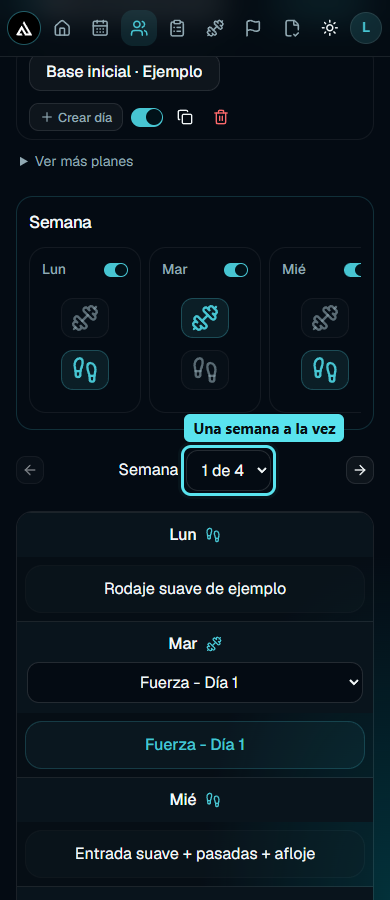
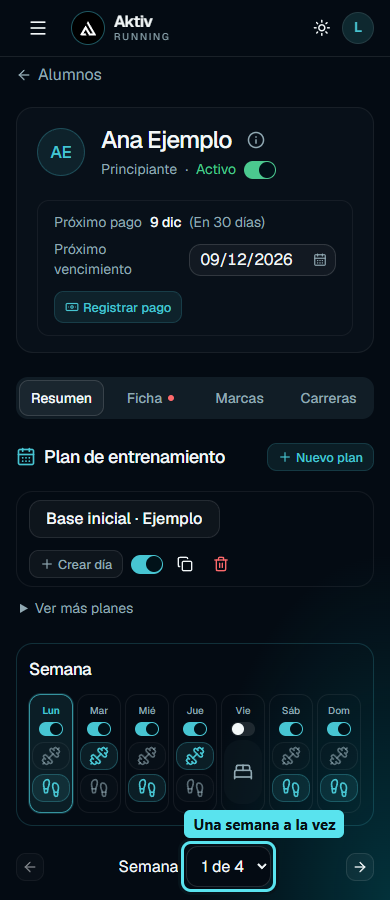
Compactar semana y agregar navegación lateral móvil

diff --git a/aktiv-client/src/components/planificacion-unificada.tsx b/aktiv-client/src/components/planificacion-unificada.tsx
@@ -1,7 +1,7 @@
 "use client";
 
 import { memo, useMemo, useCallback, useEffect, useRef, useState, type ReactNode, type CSSProperties } from "react";
-import { Activity, ArrowLeft, ArrowRight, BedDouble, Dumbbell, Footprints } from "lucide-react";
+import { Activity, ArrowLeft, ArrowRight, BedDouble, Dumbbell, Footprints, RotateCcw } from "lucide-react";
 import { toast } from "sonner";
 import { actividadesDelDia, actualizarDistribucion, asignarDiaApi, DIAS_PLAN, DIAS_RUNNING, semanaDelPlan, type ActividadDia, type Distribucion, type PlanMensual, type Running, type SesionEntrenamiento } from "@aktiv/contrato";
 import { Button } from "./ui/button";
@@ -11,7 +11,7 @@ import { CeldaRunning } from "./running-semanal";
 import { useActividadesPlan } from "./actividades-plan";
 import { usePlanEditor } from "./plan-editor-context";
 import { avisarCambioDistribucion, avisarCambioRunning, hayBorradoresMensuales, registrarBorradorMensual } from "@/lib/mensual";
-import { formatFecha, hoyISO } from "@/lib/format";
+import { diaDeHoy, formatFecha, hoyISO } from "@/lib/format";
 
 type Plan = Pick<PlanMensual,"id"|"semanas"|"sesiones"|"running"|"distribucion"> & {inicio?:string;nombre?:string};
 type Props = {plan:Plan;editable:boolean;renderRutina:(s:SesionEntrenamiento,semana:number,cerrar:()=>void)=>ReactNode};
@@ -23,7 +23,7 @@ const nombreRutina=(p:Plan,s:SesionEntrenamiento)=>`${tipoVisual(s.tipo)} - Día
 const nombreVisible=(nombre:string)=>nombre.replace(/(Fuerza|GYM)\s*[·–—]\s*(Día\s*\d+)/gi,"Fuerza - $2");
 const selector="w-full min-w-0 rounded-lg border border-input bg-background px-2 py-2 text-center text-sm focus-visible:outline-2 focus-visible:outline-ring";
 
-const Asignador=memo(function Asignador({valor,sesiones,label,onGuardar,onCambiar,onPendiente,soloRutina=false,mostrarRutina=true,disabled=false}:{valor:ActividadDia[];tipos:string[];sesiones:SesionEntrenamiento[];label:string;onGuardar:(a:ActividadDia[])=>Promise<void>;onCambiar:(a:ActividadDia[])=>void;onPendiente:(id:string,v:boolean)=>void;soloRutina?:boolean;mostrarRutina?:boolean;disabled?:boolean}) {
+const Asignador=memo(function Asignador({valor,sesiones,label,onGuardar,onCambiar,onPendiente,soloRutina=false,mostrarRutina=true,disabled=false,hoy=false}:{valor:ActividadDia[];tipos:string[];sesiones:SesionEntrenamiento[];label:string;onGuardar:(a:ActividadDia[])=>Promise<void>;onCambiar:(a:ActividadDia[])=>void;onPendiente:(id:string,v:boolean)=>void;soloRutina?:boolean;mostrarRutina?:boolean;disabled?:boolean;hoy?:boolean}) {
  const [lista,setLista]=useState(valor),[guardada,setGuardada]=useState(JSON.stringify(valor)),[ocupado,setOcupado]=useState(false),[error,setError]=useState("");
  const serial=JSON.stringify(valor),sucio=JSON.stringify(lista)!==guardada;
  if(!sucio&&!ocupado&&serial!==guardada){setLista(JSON.parse(serial));setGuardada(serial);}
@@ -38,20 +38,22 @@ const Asignador=memo(function Asignador({valor,sesiones,label,onGuardar,onCambia
  },[lista,sucio,ocupado,error,onGuardar]);
  function actualizar(nueva:ActividadDia[]){onPendiente(controlId,JSON.stringify(nueva)!==guardada);setLista(nueva);onCambiar(nueva);setError("");}
  function cambiar(i:number,a:ActividadDia){actualizar(lista.map((actual,n)=>n===i?a:actual));}
- return <div className="min-w-0 space-y-2">
-  {!soloRutina&&<><div className="flex min-w-0 items-center justify-between gap-2"><span className="text-xs font-medium text-muted-foreground">{label.includes(",")?"Entrenamiento":label.slice(0,3)}</span><Switch size="sm" aria-label={`Entrena el ${label}`} checked={!descansa} disabled={disabled} onCheckedChange={entrena=>{if(entrena)actualizar(anteriores.current.filter(a=>sesiones.some(s=>s.id===a.sesionId)||!a.sesionId));else{anteriores.current=lista.filter(a=>a.tipo!=="Descanso");actualizar([{tipo:"Descanso"}]);}}} /></div>
-   <div role="group" aria-label={`Actividades de ${label}`} className="flex min-h-28 flex-col items-center justify-center gap-3">
-    {descansa?<div role="status" aria-label={`Descanso de ${label}`} className="flex size-14 items-center justify-center rounded-xl bg-muted/40 text-muted-foreground"><BedDouble aria-hidden="true" className="size-8" /><span className="sr-only">Descanso</span></div>:[...new Set(["Fuerza","Running",...lista.map(a=>a.tipo)].map(tipoVisual))].filter(t=>t!=="Descanso").map(tipo=>{const activo=lista.some(a=>tipoVisual(a.tipo)===tipo),Icono=icono(tipo);return <Button key={tipo} type="button" variant="ghost" aria-label={`${tipo} de ${label}`} title={tipo} aria-pressed={activo} disabled={disabled||(!activo&&lista.length>=8)} className={`h-10 w-12 shrink-0 rounded-lg border p-0 transition-colors ${activo?"border-primary/35 bg-primary/10 text-primary":"border-border/70 bg-muted/25 text-muted-foreground/60 hover:bg-muted/50 hover:text-foreground"}`} onClick={()=>actualizar(activo?lista.filter(a=>tipoVisual(a.tipo)!==tipo):[...lista.filter(a=>a.tipo!=="Descanso"),{tipo}])}><Icono aria-hidden="true" className="size-7" /></Button>;})}
+ return <div className="min-w-0 space-y-1">
+  {!soloRutina&&<><div className="flex min-w-0 flex-col items-center justify-between gap-1 sm:flex-row"><span className={hoy?"text-[10px] font-semibold text-primary sm:text-xs":"text-[10px] font-medium text-muted-foreground sm:text-xs"}>{label.includes(",")?"Entrenamiento":label.slice(0,3)}</span><Switch size="sm" className="after:inset-x-0" aria-label={`Entrena el ${label}`} checked={!descansa} disabled={disabled} onCheckedChange={entrena=>{if(entrena)actualizar(anteriores.current.filter(a=>sesiones.some(s=>s.id===a.sesionId)||!a.sesionId));else{anteriores.current=lista.filter(a=>a.tipo!=="Descanso");actualizar([{tipo:"Descanso"}]);}}} /></div>
+   <div role="group" aria-label={`Actividades de ${label}`} className="flex min-h-16 flex-col items-center justify-center gap-1">
+    {descansa?<div role="status" aria-label={`Descanso de ${label}`} className="flex h-16 w-full max-w-10 items-center justify-center rounded-xl bg-muted/40 text-muted-foreground"><BedDouble aria-hidden="true" className="size-5 sm:size-6" /><span className="sr-only">Descanso</span></div>:[...new Set(["Fuerza","Running",...lista.map(a=>a.tipo)].map(tipoVisual))].filter(t=>t!=="Descanso").map(tipo=>{const activo=lista.some(a=>tipoVisual(a.tipo)===tipo),Icono=icono(tipo);return <Button key={tipo} type="button" variant="ghost" aria-label={`${tipo} de ${label}`} title={tipo} aria-pressed={activo} disabled={disabled||(!activo&&lista.length>=8)} className={`h-7 w-full max-w-10 shrink-0 sm:h-8 rounded-lg border p-0 transition-colors ${activo?"border-primary/35 bg-primary/10 text-primary":"border-border/70 bg-muted/25 text-muted-foreground/60 hover:bg-muted/50 hover:text-foreground"}`} onClick={()=>actualizar(activo?lista.filter(a=>tipoVisual(a.tipo)!==tipo):[...lista.filter(a=>a.tipo!=="Descanso"),{tipo}])}><Icono aria-hidden="true" className="size-5 sm:size-6" /></Button>;})}
    </div>
   </>}
   {mostrarRutina&&lista.map((a,i)=>!["Running","Descanso"].includes(a.tipo)&&<select key={a.tipo+i} disabled={disabled} aria-label={`Rutina de ${tipoVisual(a.tipo)} para ${label}`} className={selector} value={a.sesionId??""} onChange={e=>{const sesion=sesiones.find(s=>s.id===e.target.value);cambiar(i,{tipo:sesion?.tipo??a.tipo,...(sesion?{sesionId:sesion.id}:{})});}}>
    <option value="">Sin asignar</option>{sesiones.filter(s=>tipoVisual(s.tipo)===tipoVisual(a.tipo)).map((s,n)=><option key={s.id} value={s.id}>{nombreVisible(s.nombre)||`${tipoVisual(s.tipo)} - Día ${n+1}`}</option>)}
   </select>)}
-  {error?<div role="alert" className="space-y-1 text-xs text-destructive"><p>{error}</p><Button size="sm" variant="outline" onClick={()=>setError("")}>Reintentar asignación</Button></div>:sucio||ocupado?<p role="status" className="sr-only">Guardando asignación…</p>:null}
+  {error?<div role="alert" className="space-y-1 text-xs text-destructive"><p className={soloRutina?"break-words":"sr-only"}>{error}</p><Button size="sm" variant="outline" className="h-8 w-full px-0" aria-label="Reintentar asignación" title="Reintentar asignación" onClick={()=>setError("")}><RotateCcw aria-hidden="true" className="size-4" /></Button></div>:sucio||ocupado?<p role="status" className="sr-only">Guardando asignación…</p>:null}
  </div>;
-},(a,b)=>JSON.stringify(a.valor)===JSON.stringify(b.valor)&&a.sesiones===b.sesiones&&a.label===b.label&&a.onGuardar===b.onGuardar&&a.onCambiar===b.onCambiar&&a.onPendiente===b.onPendiente&&a.soloRutina===b.soloRutina&&a.mostrarRutina===b.mostrarRutina&&a.disabled===b.disabled);
+},(a,b)=>JSON.stringify(a.valor)===JSON.stringify(b.valor)&&a.sesiones===b.sesiones&&a.label===b.label&&a.onGuardar===b.onGuardar&&a.onCambiar===b.onCambiar&&a.onPendiente===b.onPendiente&&a.soloRutina===b.soloRutina&&a.mostrarRutina===b.mostrarRutina&&a.disabled===b.disabled&&a.hoy===b.hoy);
 
 export function PlanificacionUnificada({plan,editable,renderRutina}:Props) {
+ const [hoy,setHoy]=useState(diaDeHoy);
+ useEffect(()=>{const reloj=setInterval(()=>setHoy(diaDeHoy()),60000);return()=>clearInterval(reloj);},[]);
  const {api}=usePlanEditor();const {actividades,error:errorActividades}=useActividadesPlan(editable);
  const [distribucion,setDistribucion]=useState<Distribucion>(plan.distribucion??{}),[running,setRunning]=useState<Running>(plan.running??{});
  const [semana,setSemana]=useState(()=>plan.inicio?(semanaDelPlan(plan.inicio,hoyISO(),plan.semanas)??1):1);
@@ -81,14 +83,14 @@ export function PlanificacionUnificada({plan,editable,renderRutina}:Props) {
  return <section aria-label="Planificación unificada" className="min-w-0 space-y-5">
   <div className="space-y-3 rounded-xl border border-primary/20 p-3 sm:p-4"><div className="flex flex-wrap items-center justify-between gap-3"><div><h3 aria-label="Actividades de la semana" className="text-base font-medium tracking-tight">Semana</h3></div></div>
    {errorActividades&&editable&&<p role="alert" className="text-sm text-destructive">{errorActividades}</p>}
-   <div className="flex min-w-0 max-w-full gap-2 overflow-x-auto pb-1 lg:grid lg:grid-cols-7">{DIAS_PLAN.map((dia,i)=><section key={dia} aria-label={`Asignación de ${dia}`} className="w-28 min-w-0 shrink-0 rounded-xl border border-border/70 p-3 lg:w-auto">{!editable&&<h4 className="text-xs font-medium text-muted-foreground">{dia.slice(0,3)}</h4>}{editable?<Asignador mostrarRutina={false} disabled={Boolean(pendientes["rutina:"+dia])||Object.entries(pendientes).some(([id,v])=>v&&id.endsWith(":"+DIAS_RUNNING[i]))} valor={vista.base?.[i+1]??actividadesDelDia({...plan,distribucion:{}},i+1,1)} tipos={tipos} sesiones={plan.sesiones} label={dia} onPendiente={onPendiente} onGuardar={guardarDias[i]} onCambiar={anticiparDias[i]} />:<p className="break-words text-sm text-muted-foreground">{actividadesDelDia(datos,i+1,semana).map(a=>a.tipo).join(" + ")||"Sin asignar"}</p>}{Object.values(distribucion.semanas??{}).some(d=>d[i+1]!==undefined)&&<p className="text-xs text-primary">Varía por semana</p>}</section>)}</div>
+   <div className="grid min-w-0 max-w-full grid-cols-7 gap-1 sm:gap-2">{DIAS_PLAN.map((dia,i)=><section key={dia} aria-label={`Asignación de ${dia}`} aria-current={i===hoy?"date":undefined} className={`min-w-0 rounded-lg border p-0.5 py-2 sm:p-2 ${i===hoy?"border-primary/70 bg-primary/10 ring-1 ring-primary/20":"border-border/70"}`}>{!editable&&<h4 className="text-xs font-medium text-muted-foreground">{dia.slice(0,3)}</h4>}{editable?<Asignador hoy={i===hoy} mostrarRutina={false} disabled={Boolean(pendientes["rutina:"+dia])||Object.entries(pendientes).some(([id,v])=>v&&id.endsWith(":"+DIAS_RUNNING[i]))} valor={vista.base?.[i+1]??actividadesDelDia({...plan,distribucion:{}},i+1,1)} tipos={tipos} sesiones={plan.sesiones} label={dia} onPendiente={onPendiente} onGuardar={guardarDias[i]} onCambiar={anticiparDias[i]} />:<p className="break-words text-sm text-muted-foreground">{actividadesDelDia(datos,i+1,semana).map(a=>a.tipo).join(" + ")||"Sin asignar"}</p>}{Object.values(distribucion.semanas??{}).some(d=>d[i+1]!==undefined)&&<p className="text-xs text-primary">Varía por semana</p>}</section>)}</div>
   </div>
   {pendiente&&<p role="status" className="sr-only">Hay cambios pendientes de guardar</p>}
   <div className="flex items-center justify-between gap-3 md:hidden"><Button variant="outline" size="icon-sm" aria-label="Semana anterior de planificación" disabled={pendiente||semana===1} onClick={()=>navegar(()=>setSemana(s=>s-1))}><ArrowLeft /></Button><label className="flex items-center gap-2 text-sm">Semana<select className={selector} aria-label="Semana de planificación" value={semana} disabled={pendiente} onChange={e=>navegar(()=>setSemana(Number(e.target.value)))}>{Array.from({length:plan.semanas},(_,i)=><option key={i} value={i+1}>{i+1} de {plan.semanas}</option>)}</select></label><Button variant="outline" size="icon-sm" aria-label="Semana siguiente de planificación" disabled={pendiente||semana===plan.semanas} onClick={()=>navegar(()=>setSemana(s=>s+1))}><ArrowRight /></Button></div>
   {plan.semanas>4&&<div className="hidden items-center justify-between md:flex"><Button variant="outline" size="sm" disabled={pendiente||desde===1} onClick={()=>navegar(()=>setSemana(desde-4))}><ArrowLeft />Anteriores</Button><span className="text-sm">Semanas {desde}–{columnas.at(-1)} de {plan.semanas}</span><Button variant="outline" size="sm" disabled={pendiente||desde+4>plan.semanas} onClick={()=>navegar(()=>setSemana(desde+4))}>Siguientes<ArrowRight /></Button></div>}
   <div className="max-w-full overflow-x-auto rounded-xl border text-center [&_textarea]:text-center [&_input]:text-center" style={{"--semanas":columnas.length} as CSSProperties}>
    <div className="hidden grid-cols-[160px_repeat(var(--semanas),minmax(0,1fr))] bg-card md:grid"><div className="p-3 text-sm font-semibold text-primary">{plan.nombre}</div>{columnas.map(s=><div key={s} className={`border-l p-3 text-center ${actual===s?"bg-primary/15 text-primary":""}`}><p className="text-sm font-semibold">Semana {s}</p>{plan.inicio&&<p className="mt-1 text-xs text-muted-foreground">{formatFecha(new Date(Date.parse(plan.inicio+"T12:00:00Z")+(s-1)*7*86400000).toISOString().slice(0,10))} – {formatFecha(new Date(Date.parse(plan.inicio+"T12:00:00Z")+((s-1)*7+6)*86400000).toISOString().slice(0,10))}</p>}</div>)}</div>
-   {DIAS_PLAN.map((dia,i)=><div key={dia} className="border-t bg-card/30 md:grid md:grid-cols-[160px_repeat(var(--semanas),minmax(0,1fr))]"><div className="space-y-1.5 bg-card p-2.5"><h4 className="flex items-center justify-center gap-2 text-sm font-medium"><span>{dia.slice(0,3)}</span>{actividadesDelDia(datos,i+1,semana).filter(a=>a.tipo!=="Descanso").map((a,n)=>{const Icono=icono(a.tipo);return <Icono key={n} aria-label={tipoVisual(a.tipo)} className="size-4 text-primary" />;})}</h4>{editable&&(vista.base?.[i+1]??actividadesDelDia({...plan,distribucion:{}},i+1,1)).some(a=>!["Running","Descanso"].includes(a.tipo))&&<Asignador soloRutina disabled={Boolean(pendientes["actividad:"+dia])} valor={vista.base?.[i+1]??actividadesDelDia({...plan,distribucion:{}},i+1,1)} tipos={tipos} sesiones={plan.sesiones} label={dia} onPendiente={onPendiente} onGuardar={guardarDias[i]} onCambiar={anticiparDias[i]} />}</div>{columnas.map(s=>{const a=actividadesGrilla(i+1,s);return <div key={s} className={(s===semana?"block":"hidden md:block")+" min-w-0 content-center space-y-2 p-2 text-center md:border-l"}>
+   {DIAS_PLAN.map((dia,i)=><div key={dia} className="border-t bg-card/30 md:grid md:grid-cols-[160px_repeat(var(--semanas),minmax(0,1fr))]"><div aria-current={i===hoy?"date":undefined} className={`space-y-1.5 p-2.5 ${i===hoy?"bg-primary/10 text-primary":"bg-card"}`}><h4 className="flex items-center justify-center gap-2 text-sm font-medium"><span>{dia.slice(0,3)}</span>{actividadesDelDia(datos,i+1,semana).filter(a=>a.tipo!=="Descanso").map((a,n)=>{const Icono=icono(a.tipo);return <Icono key={n} aria-label={tipoVisual(a.tipo)} className="size-4 text-primary" />;})}</h4>{editable&&(vista.base?.[i+1]??actividadesDelDia({...plan,distribucion:{}},i+1,1)).some(a=>!["Running","Descanso"].includes(a.tipo))&&<Asignador soloRutina disabled={Boolean(pendientes["actividad:"+dia])} valor={vista.base?.[i+1]??actividadesDelDia({...plan,distribucion:{}},i+1,1)} tipos={tipos} sesiones={plan.sesiones} label={dia} onPendiente={onPendiente} onGuardar={guardarDias[i]} onCambiar={anticiparDias[i]} />}</div>{columnas.map(s=>{const a=actividadesGrilla(i+1,s);return <div key={s} className={(s===semana?"block":"hidden md:block")+" min-w-0 content-center space-y-2 p-2 text-center md:border-l"}>
     {a.length?a.map((v,n)=>{const sesion=plan.sesiones.find(r=>r.id===v.sesionId);return <div key={v.sesionId??v.tipo+n} className="min-w-0">
      {v.tipo==="Running"&&!sesion?<RunningDetalle planId={plan.id} dia={i+1} semana={s} valor={running[s]?.[DIAS_RUNNING[i]]??""} editable={editable} onGuardado={alGuardarRunning} onPendiente={onPendiente} />:sesion?<Button className="h-12 max-h-12 w-full min-w-0 justify-center overflow-hidden whitespace-normal rounded-xl border-primary/25 bg-primary/5 px-3 py-1 text-center hover:bg-primary/10" aria-label={`Abrir ${nombreRutina(plan,sesion)}, ${dia}, semana ${s}`} onClick={()=>setRutina({id:sesion.id,semana:s})}><span className="line-clamp-2 min-w-0 break-words text-sm font-medium leading-[18px]">{nombreVisible(sesion.nombre)||nombreRutina(plan,sesion)}</span></Button>:<div className="flex min-h-12 items-center justify-center text-muted-foreground">{v.tipo==="Descanso"?<BedDouble aria-label="Descanso" className="size-7" />:<span className="text-sm">Sin asignar</span>}</div>}
     </div>;}):<p className="py-2 text-sm text-muted-foreground">Sin asignar</p>}

diff --git a/aktiv-client/src/components/navbar.tsx b/aktiv-client/src/components/navbar.tsx
@@ -1,7 +1,7 @@
 "use client";
 
 import Link from "next/link";
-import { useState } from "react";
+import { useEffect, useState } from "react";
 import { usePathname, useRouter } from "next/navigation";
 import {
   ClipboardList,
@@ -14,9 +14,12 @@ import {
   House,
   KeyRound,
   LogOut,
+  Menu,
   Timer,
   Users,
 } from "lucide-react";
+import { Button } from "@/components/ui/button";
+import { Sheet, SheetContent, SheetDescription, SheetHeader, SheetTitle, SheetTrigger } from "@/components/ui/sheet";
 import { CambiarClaveDialog } from "@/components/cambiar-clave";
 import { LogoBadge } from "@/components/logo";
 import { ThemeToggle } from "@/components/theme-toggle";
@@ -56,6 +59,8 @@ const NAV_ALUMNO = [
 export function Navbar({ session }: { session: Session }) {
   const pathname = usePathname();
   const router = useRouter();
+  const [menuAbierto,setMenuAbierto]=useState(false);
+  useEffect(()=>{const ancho=window.matchMedia("(min-width: 768px)");const cerrar=()=>{if(ancho.matches)setMenuAbierto(false);};ancho.addEventListener("change",cerrar);return()=>ancho.removeEventListener("change",cerrar);},[]);
   const [cambiandoClave, setCambiandoClave] = useState(false);
   const items = session.role === "coach" ? NAV_PROFE : NAV_ALUMNO;
   const nombreCompleto =
@@ -68,14 +73,21 @@ export function Navbar({ session }: { session: Session }) {
 
   return (
     <header className="sticky top-0 z-40 border-b bg-background/80 backdrop-blur-lg supports-[backdrop-filter]:bg-background/60">
-      <div className="mx-auto flex h-14 w-full min-w-0 max-w-6xl items-center gap-1 px-2 sm:gap-4 sm:px-6">
+      <div className="mx-auto flex h-14 w-full min-w-0 max-w-6xl items-center gap-3 px-4 sm:gap-4 sm:px-6">
+        <Sheet open={menuAbierto} onOpenChange={setMenuAbierto}>
+          <SheetTrigger aria-label="Abrir menú de navegación" render={<Button variant="ghost" size="icon" className="size-11 shrink-0 md:hidden" />}><Menu className="size-5" /></SheetTrigger>
+          <SheetContent side="left" className="data-[side=left]:h-dvh data-[side=left]:w-[min(19rem,calc(100vw-2rem))] overflow-y-auto overscroll-contain pt-[env(safe-area-inset-top)] pb-[env(safe-area-inset-bottom)]">
+            <SheetHeader><SheetTitle className="flex items-center gap-3"><span aria-hidden="true"><LogoBadge className="size-8" /></span>Aktiv</SheetTitle><SheetDescription>Navegación</SheetDescription></SheetHeader>
+            <nav aria-label="Navegación móvil" className="space-y-1 px-3 pb-4">{items.map(({href,label,icon:Icon})=>{const activo=pathname===href||pathname.startsWith(`${href}/`);return <Link key={href} href={href} aria-current={activo?"page":undefined} onClick={e=>{if(!e.defaultPrevented)setMenuAbierto(false);}} className={cn("flex min-h-11 items-center gap-3 rounded-xl px-3 text-sm font-medium outline-none focus-visible:ring-2 focus-visible:ring-ring",activo?"bg-primary/12 text-primary":"text-muted-foreground hover:bg-muted hover:text-foreground")}><Icon className="size-5 shrink-0" />{label}</Link>;})}</nav>
+          </SheetContent>
+        </Sheet>
         <Link
           href={items[0].href}
           className="flex shrink-0 items-center gap-2.5 rounded-full outline-none focus-visible:ring-3 focus-visible:ring-ring/50"
           aria-label="Aktiv, ir al inicio"
         >
           <LogoBadge className="size-8" />
-          <span className="hidden text-sm leading-none font-semibold tracking-tight md:block">
+          <span className="text-sm leading-none font-semibold tracking-tight">
             Aktiv
             <span className="mt-0.5 block text-[0.6rem] font-normal tracking-[0.2em] text-muted-foreground uppercase">
               Running
@@ -83,7 +95,7 @@ export function Navbar({ session }: { session: Session }) {
           </span>
         </Link>
 
-        <nav aria-label="Principal" className="flex min-w-0 flex-1 items-center gap-0.5 sm:ml-1 sm:gap-1">
+        <nav aria-label="Principal" className="hidden min-w-0 flex-1 items-center gap-1 md:flex">
           {items.map(({ href, label, icon: Icon }) => {
             const activo = pathname === href || pathname.startsWith(`${href}/`);
             return (
@@ -106,7 +118,7 @@ export function Navbar({ session }: { session: Session }) {
           })}
         </nav>
 
-        <div className="flex shrink-0 items-center gap-1">
+        <div className="ml-auto flex shrink-0 items-center gap-1">
           <ThemeToggle />
           <DropdownMenu>
             <DropdownMenuTrigger

diff --git a/aktiv-client/src/lib/manual-detallado.ts b/aktiv-client/src/lib/manual-detallado.ts
@@ -15,6 +15,7 @@ export const guias: GuiaManual[] = [
     p("Cargá Running", "En los días con pies pulsá la celda de la semana: abre el detalle con el día y la semana elegidos. Allí escribí o leé el entrenamiento completo. La vista previa tiene altura fija y recorta el texto largo. Volumen admite los kilómetros totales manuales y Sugerencias texto libre. La app no calcula distancias a partir de abreviaturas.", "planificacion-grilla"),
     p("Cerrá el modal", "Los cambios se guardan automáticamente. Usá la X o Escape para cerrar; si hay un guardado pendiente o fallido, el modal conserva el borrador. Ante un error pulsá Reintentar guardado.", "planificacion-modal-profe"),
     p("Revisá la vista del alumno", "El alumno abre el mismo día en un modal de lectura. Puede marcarlo como realizado opcionalmente; si no lo hace no se muestra una advertencia ni se bloquea el plan.", "planificacion-modal-alumno"),
+    p("Abrí la navegación móvil", "En celular, pulsá el botón de menú junto al logo. El panel lateral muestra los apartados con sus nombres. Elegí uno para navegar; se cierra al elegir una opción. También podés cerrarlo con la X o Escape.", "planificacion-menu-movil"),
     p("Desde el celular", "La grilla muestra una semana por vez. Usá el selector y las flechas para avanzar. En escritorio aparecen hasta cuatro semanas con sus rangos de fechas; los planes más largos se recorren por grupos.", "planificacion-movil"),
   ], "Editar una rutina compartida actualiza todos los días donde está asignada. La asignación semanal se repite en todas las semanas. Las herramientas avanzadas que no forman parte del diseño actual están pendientes de una nueva ubicación."),
 
